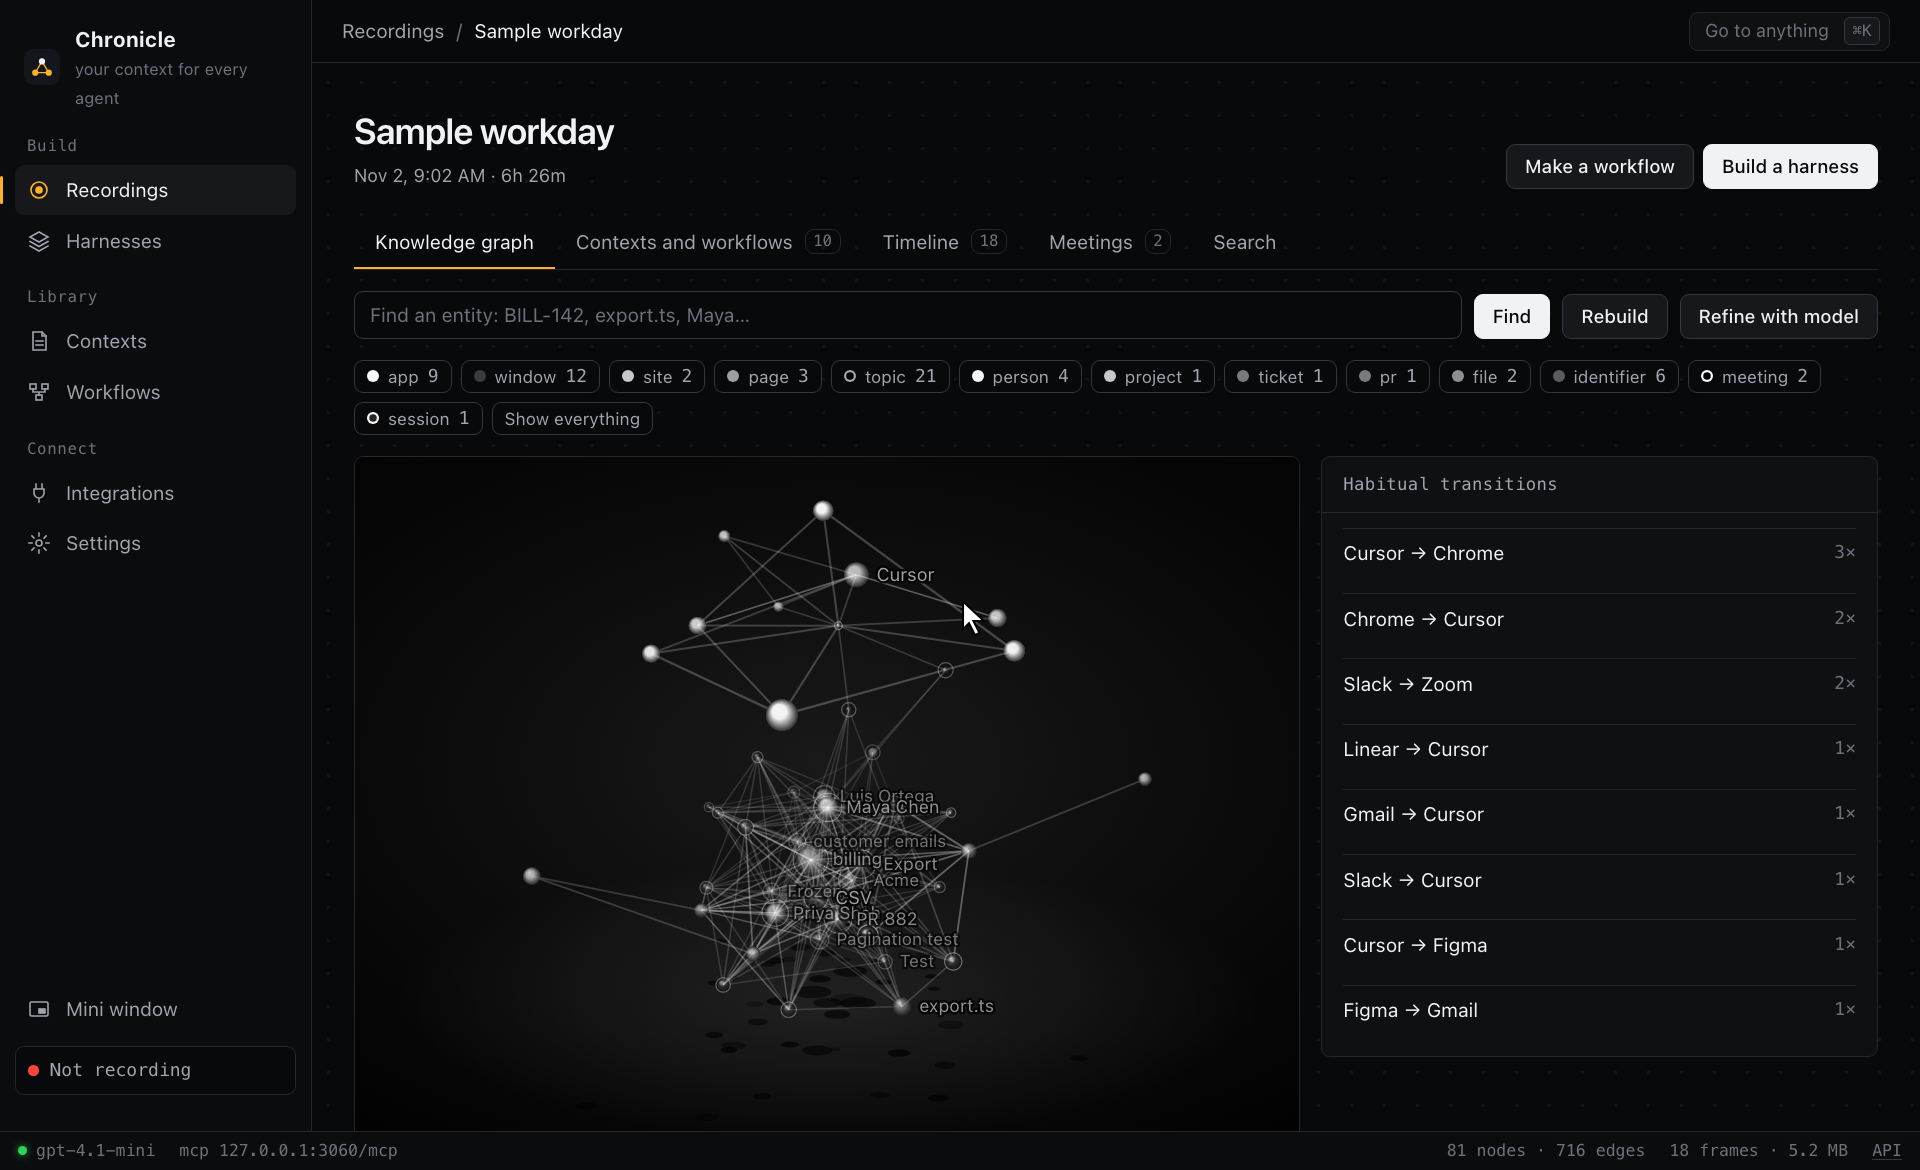
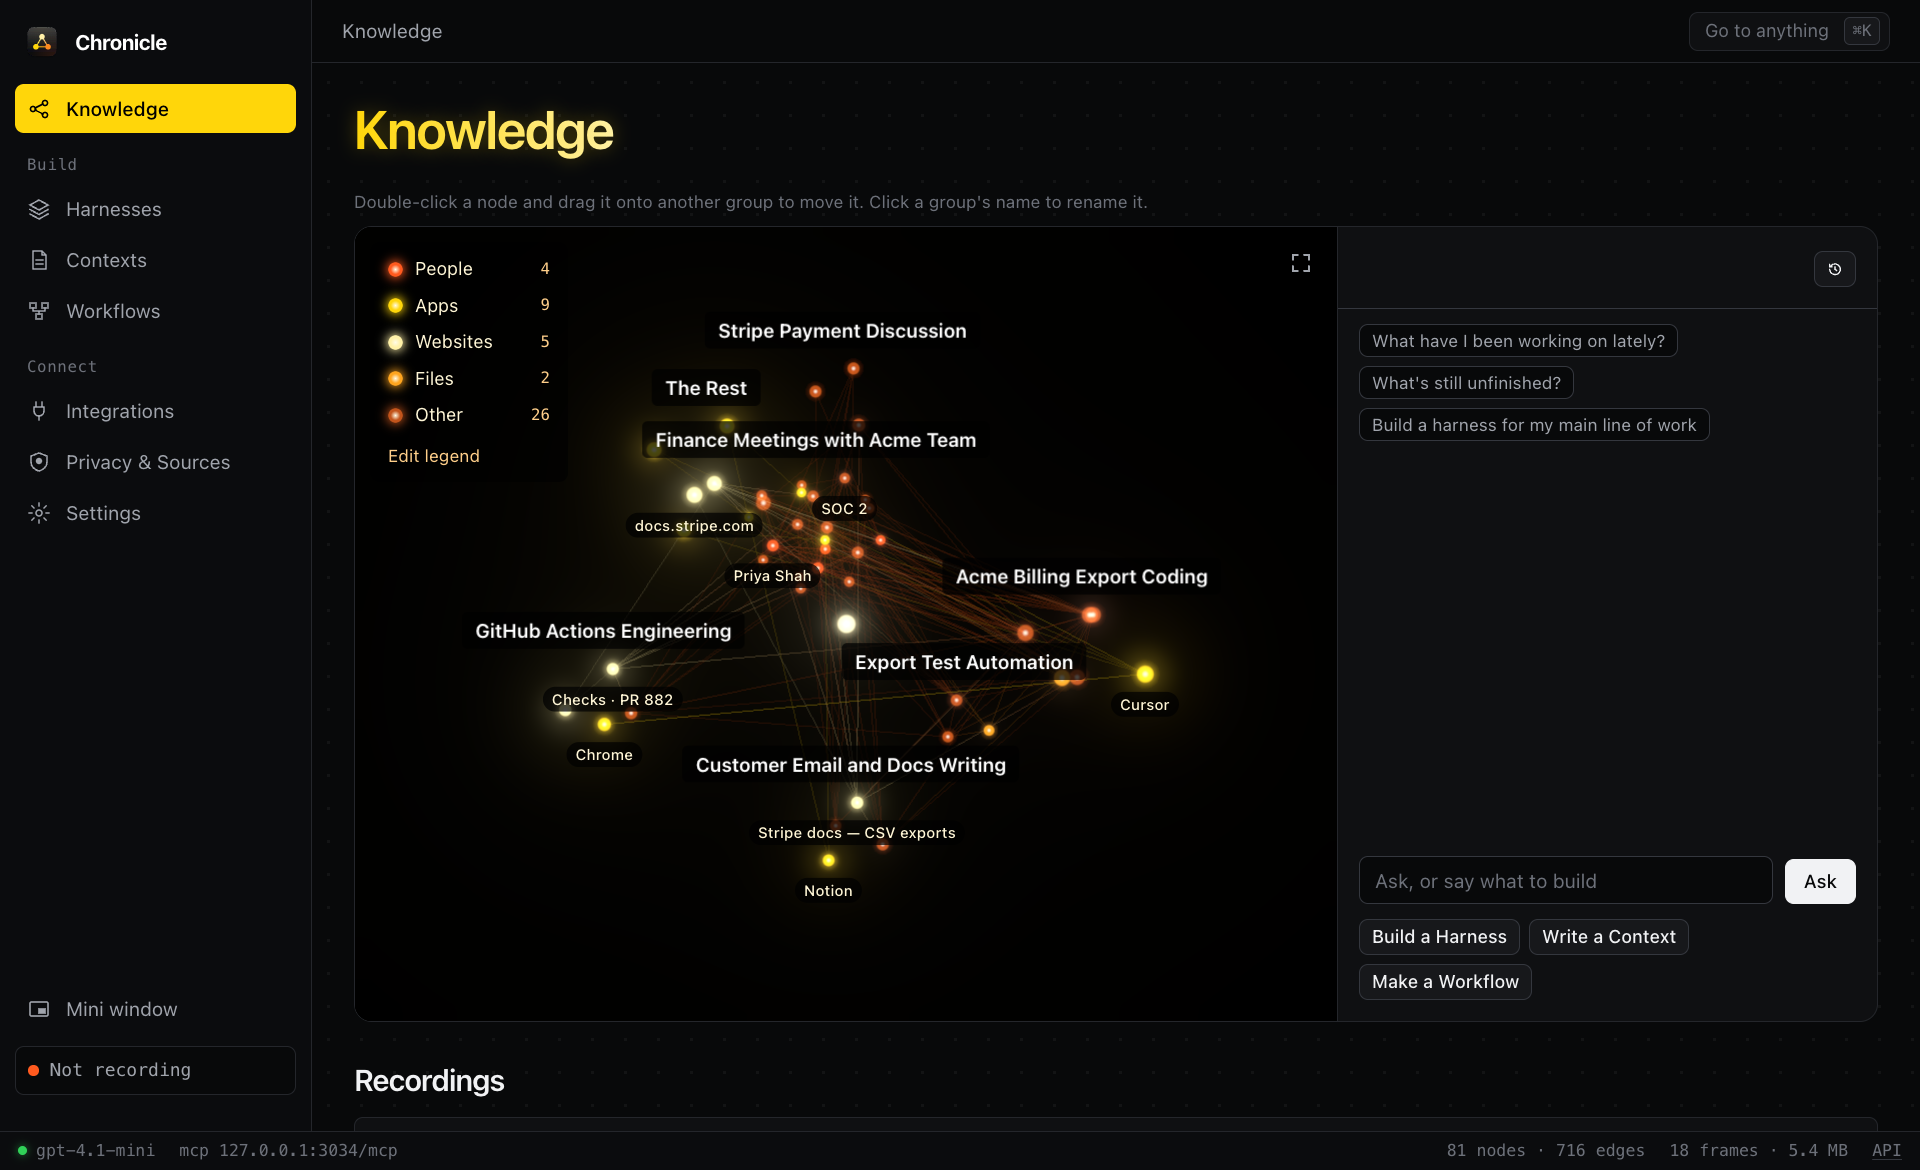
Update the README headline and rename How it Works

diff --git a/site/index.html b/site/index.html
@@ -46,7 +46,7 @@
   <div class="card c-graph"><h3 class="path">graph/</h3><p>Merged from the recordings you choose, down to the system events, so agents can look up what actually happened.</p></div>
 </div>
 
-<h2>Chronicle in Action</h2>
+<h2>How it Works</h2>
 <div class="feature"><div><h3>1. Record a session</h3><p>Pick a duration, or stop when you're done. Keystrokes are never recorded, and password managers are skipped.</p></div><figure class="demo"><img src="assets/gifs/record.gif?v=5" alt="Starting a recording, watching its live stats, then stopping it to build the graph" loading="lazy"></figure></div>
 <div class="feature"><div><h3>2. Generate contexts and workflows</h3><p>A model reads everything recorded and names the kinds of session it shows. You can use OpenAI, Anthropic, Gemini, OpenRouter, or a local model.</p></div><figure class="demo"><img src="assets/gifs/contexts.gif?v=5" alt="Generating context files and workflows from a recording, then opening one" loading="lazy"></figure></div>
 <div class="feature"><div><h3>3. Ask your knowledge graph</h3><p>Knowledge opens on a 3D graph of all your history with a chat beside it. Answers cite the frames they came from, and the chat can propose a harness to build.</p></div><figure class="demo"><img src="assets/gifs/graph.gif?v=5" alt="Rotating the knowledge graph, opening a node, and asking what's unfinished" loading="lazy"></figure></div>

diff --git a/README.md b/README.md
@@ -1,6 +1,6 @@
-![Chronicle knowledge graph view of the sample workday](https://raw.githubusercontent.com/aniketxdey/chronicle/main/docs/assets/headline.png)
+![Chronicle's Knowledge page showing the knowledge graph and chat for the sample workday](https://raw.githubusercontent.com/aniketxdey/chronicle/main/docs/assets/headline.png)
 
-*A knowledge graph of the synthetic sample workday that `chronicle demo` loads. The image shows no real screen data.*
+*The Knowledge page on the synthetic sample workday that `chronicle demo` loads. The image shows no real screen data.*
 
 # Chronicle
 
